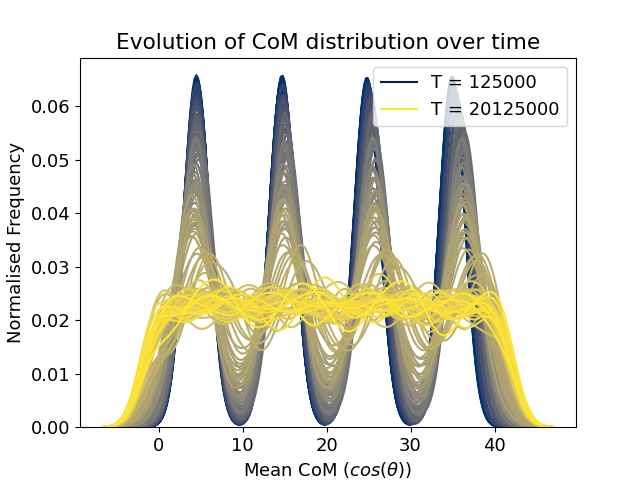
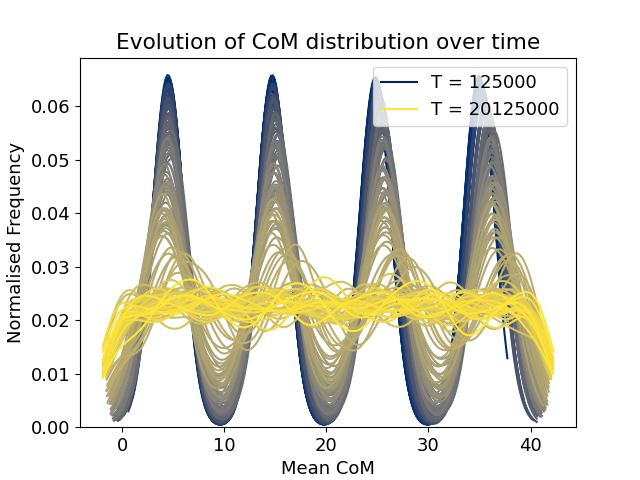
formal smectic order parameter calculation

Changed region(s): [[0.1562, 0.1562, 0.875, 1.0]]

diff --git a/Phase_Structure/Rigid_Rods2/Crystalline/smectic_plot.py b/Phase_Structure/Rigid_Rods2/Crystalline/smectic_plot.py
@@ -1,4 +1,5 @@
 import numpy as np
+import scipy
 import matplotlib.pyplot as plt
 import seaborn as sns
 from scipy.ndimage import uniform_filter1d  # for rolling average
@@ -9,6 +10,21 @@ sampling_freq = 5  # only samples one in X files (must be integer) #30
 plotting_freq = 5  # only plots on in X of the sampled distributions
 
 plt.rcParams.update({"font.size": 13})  # for figures to go into latex at halfwidth
+
+
+def order_param(data):
+    """Input data in array of length Molecule Number 
+
+    Input data will be rod_positions array which stores input data   
+    First index gives molecule number
+    Third index gives the component of the position of CoM (x,y,z)
+
+    Method for calculation given by Polson (1997) 10.1103/PhysRevE.56.R6260
+    """
+    k = 2 * np.pi / 10  # divide by length of molecule
+    exp_values = np.exp(1j * k * data)
+    return np.abs(np.sum(exp_values)) / N_molecules
+
 
 # READ PARAMETER VALUES FROM LOG FILE
 
@@ -83,8 +99,10 @@ def CoM_dist(data):
 
 # READ MOLECULE POSITIONS
 
-CoM_mean_values = np.zeros(len(time_range))
 volume_values = np.full(len(time_range), np.nan)  # new array of NaN
+order_param_values = np.full(len(time_range), np.nan)
+CoM_mean_values = []
+CoM_mean_times = []
 for i, time in enumerate(time_range):  # interate over dump files
     data_file = open(file_root + str(time) + ".dump", "r")
     extract_atom_data = False  # start of file doesn't contain particle values
@@ -133,57 +151,116 @@ for i, time in enumerate(time_range):  # interate over dump files
 
     data_file.close()  # close data_file for time step t
     volume_values[i] = box_volume
+    order_param_values[i] = order_param(rod_positions[:, 1])
 
     CoM_data = rod_positions[:, 1]  # select y coordinate
-    CoM_mean_values[i] = np.mean(CoM_data)  # evaluate order param at time t
+    # kde_data = scipy.stats.gaussian_kde(CoM_data)
 
+    plot_num = 0
     tot_plot_num = len(time_range) // plotting_freq
     colors = plt.cm.cividis(np.linspace(0, 1, tot_plot_num))
     if i % plotting_freq == 0 and time != 0:
-        print(time)
         if i == plotting_freq or time >= run_time - (
             dump_interval * sampling_freq * plotting_freq
         ):
-            # label only start and end points
-            # plt.hist(
-            #     CoM_data,
-            #     density=True,
-            #     histtype="step",
-            #     color=colors[i // plotting_freq - 1],
-            #     label="T = " + str(int(time)),
-            # )
-            sns.kdeplot(
+
+            my_kde = sns.kdeplot(
                 CoM_data,
                 label="T = " + str(int(time)),
                 color=colors[i // plotting_freq - 1],
                 bw_adjust=0.5,  # adjusts smoothing (default is 1)
+                cut=0,
+                # clip=(0, 50), # cuts off x limit
                 # gridsize=50,  #adjusts points in average (default is 200)
             )
         else:
-            sns.kdeplot(
+            my_kde = sns.kdeplot(
                 CoM_data,
                 color=colors[i // plotting_freq - 1],
                 alpha=1,
                 bw_adjust=0.5,
+                cut=0,
+                # clip=(0, 50), # cuts off x limit
                 # gridsize=50
             )
             # alpha may be used to adjust transparency
+        line = my_kde.lines[plot_num - 1]
+        x, y = line.get_data()
+        CoM_mean_values.append(max(y) - min(y))
+        CoM_mean_times.append(time)  # evaluate order param at time t
+        plot_num += 1
+        print(max(y), min(y))
 
     print("T = " + str(time) + "/" + str(run_time))
 
 plt.title("Evolution of CoM distribution over time")
-plt.xlabel(r"Mean CoM ($cos(\theta)$)")
+plt.xlabel("Mean CoM")
 plt.ylabel("Normalised Frequency")
 plt.legend()
 plt.savefig("CoM_dist.png")
 plt.show()
 
-plt.plot(time_range, CoM_mean_values)
+plt.plot(CoM_mean_times, CoM_mean_values)
 plt.plot(
-    time_range, uniform_filter1d(CoM_mean_values, size=int(10)), linestyle="--",
+    CoM_mean_times, uniform_filter1d(CoM_mean_values, size=int(10)), linestyle="--",
 )
 plt.xlabel("Time (arbitrary units)")
-plt.ylabel(r"Mean CoM ($cos(\theta)$)")
+plt.ylabel("Mean CoM")
 plt.title("Evolution of Mean CoM")
 plt.savefig("CoM_mean.png")
+plt.show()
+
+fig, ax1 = plt.subplots()
+
+color = "tab:red"
+ax1.set_xlabel("Time (arbitrary units)")
+ax1.set_ylabel("CoM density variation", color=color)
+ax1.plot(CoM_mean_times, uniform_filter1d(CoM_mean_values, size=int(10)), color=color)
+ax1.tick_params(axis="y", labelcolor=color)
+
+ax2 = ax1.twinx()  # instantiate a second axes that shares the same x-axis
+
+color = "tab:blue"
+ax2.set_ylabel(
+    "Volume Fraction", color=color
+)  # we already handled the x-label with ax1
+ax2.plot(time_range, vol_frac(volume_values), color=color)
+ax2.tick_params(axis="y", labelcolor=color)
+
+plt.title("Evolution of CoM Density")
+fig.tight_layout()  # otherwise the right y-label is slightly clipped
+plt.savefig("CoMdensity_and_volfrac.png")
+plt.show()
+
+plt.plot(time_range, order_param_values)
+plt.plot(
+    time_range, uniform_filter1d(order_param_values, size=int(10)), linestyle="--",
+)
+plt.xlabel("Time (arbitrary units)")
+plt.ylabel("Order Parameter")
+plt.title("Evolution of Smectic Order Parameter")
+plt.savefig("smectic_order_evo.png")
+plt.show()
+
+
+fig, ax1 = plt.subplots()
+
+color = "tab:red"
+ax1.set_xlabel("Time (arbitrary units)")
+ax1.set_ylabel("Smectic Order Parameter", color=color)
+ax1.plot(time_range, order_param_values, color=color)
+ax1.tick_params(axis="y", labelcolor=color)
+
+ax2 = ax1.twinx()  # instantiate a second axes that shares the same x-axis
+
+color = "tab:blue"
+ax2.set_ylabel(
+    "Volume Fraction", color=color
+)  # we already handled the x-label with ax1
+ax2.plot(time_range, vol_frac(volume_values), color=color)
+ax2.tick_params(axis="y", labelcolor=color)
+
+plt.title("Evolution of Order Parameter")
+fig.tight_layout()  # otherwise the right y-label is slightly clipped
+plt.savefig("s_order_and_volfrac2.png")
 plt.show()
